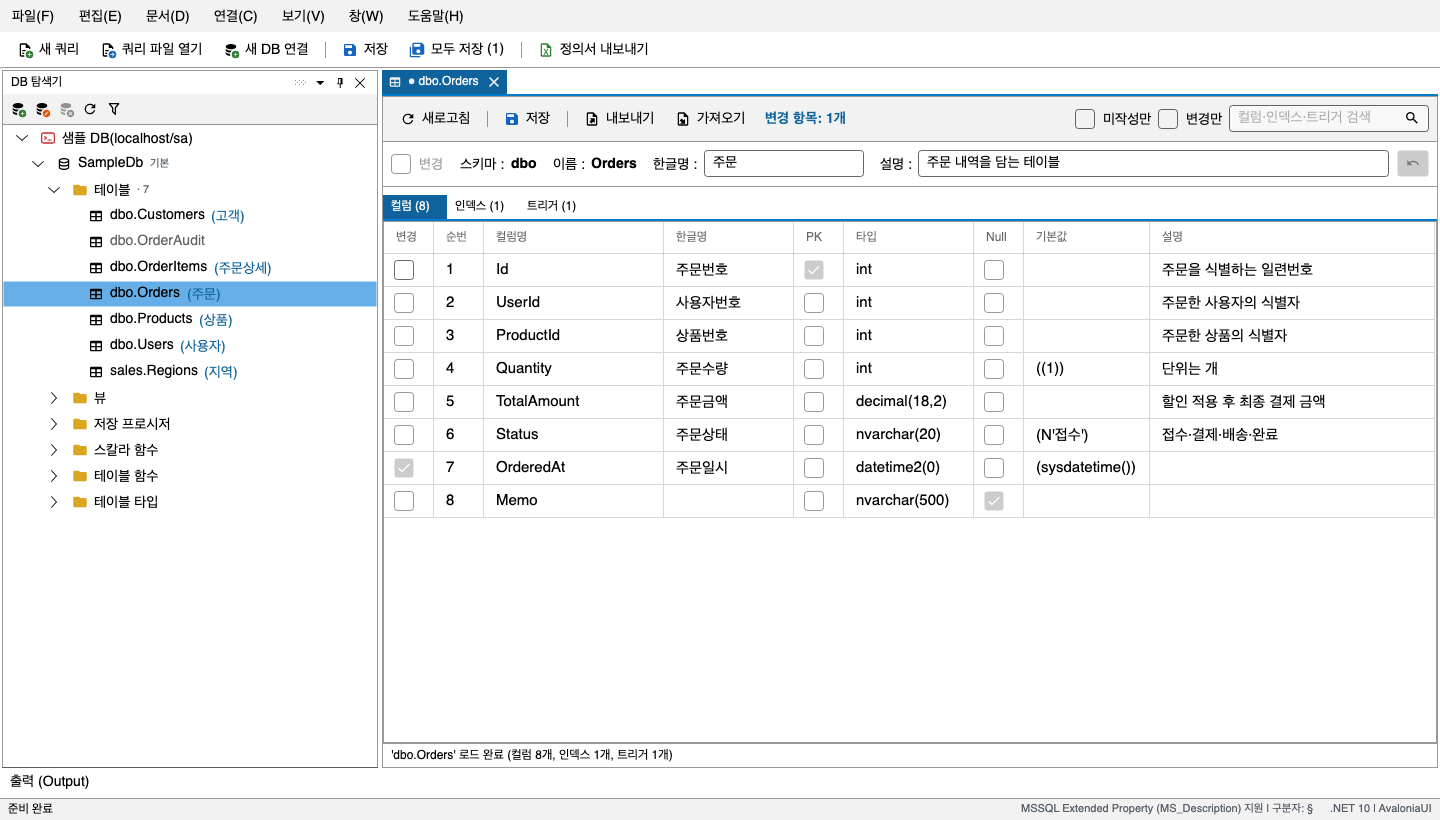
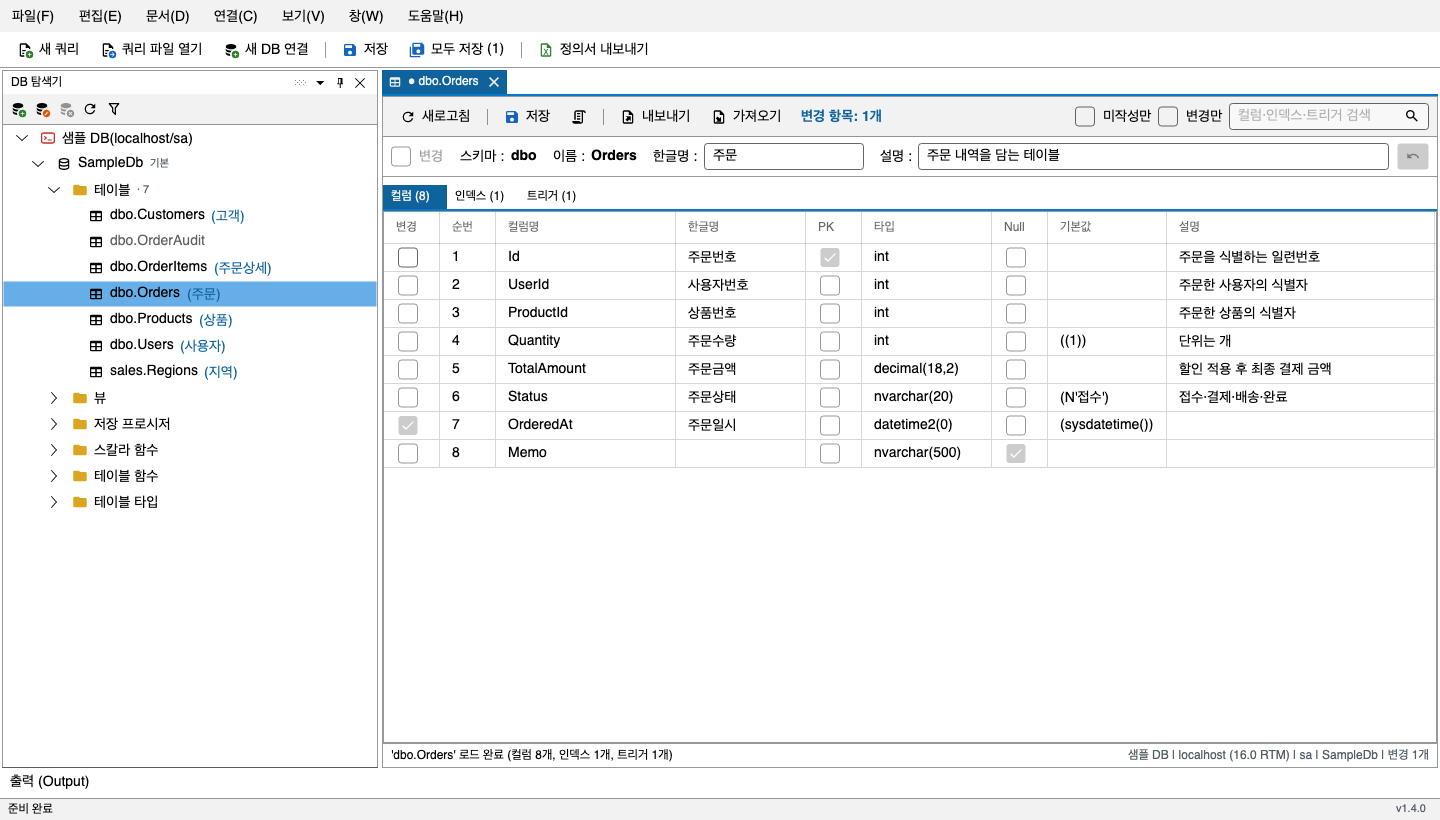
1.4.0 기능에 맞춰 README·사용 설명서와 메인 화면 스크린숏을 고친다

Changed region(s): [[0.25, 0.122, 1.0, 0.6402], [0.7188, 0.9756, 1.0, 1.0], [0.7812, 0.9146, 1.0, 0.9451]]

diff --git a/docs/settings-shortcuts.md b/docs/settings-shortcuts.md
@@ -9,16 +9,23 @@
 | 묶음 | 항목 | 기본값 | 언제 반영되나 |
 |---|---|---|---|
 | 일반 | 테마 (시스템 설정 따르기 · 라이트 · 다크) | 시스템 설정 따르기 | 고르는 즉시. 취소하면 되돌아간다 |
+| 일반 | 화면 글꼴 (설치된 글꼴) | 기본(Inter + OS 한글 글꼴) | 고르는 즉시. 취소하면 되돌아간다 |
+| 일반 | 화면 글자 크기 (12~18) | 14 | 고르는 즉시. 버튼·입력칸 높이도 함께 바뀐다. 취소하면 되돌아간다 |
 | 일반 | 앱을 켤 때 시작 페이지 표시 | 켬 | 다음 실행부터 |
 | 일반 | 앱을 켤 때 업데이트 확인 | 켬 | 다음 실행부터. **도움말 > 업데이트 확인**은 설정과 상관없이 언제나 된다 |
 | 일반 | 앱을 켤 때 지난번 SQL 편집기 탭 다시 열기 | 켬 | 다음 실행부터. 파일로 저장한 탭만 다시 열고, 실행하지는 않는다([4.9](sql-editor.md#49-파일로-저장지난-탭)) |
-| SQL 편집기 | 새 탭의 확대 비율 | 100 % | 새로 여는 SQL 편집기 탭부터. 열려 있는 탭은 그대로다 |
+| SQL 편집기 | 코드 글꼴 (설치된 고정폭 글꼴) | D2Coding(앱에 들어 있음) | 고르는 즉시. 취소하면 되돌아간다 |
+| SQL 편집기 | 코드 글자 크기 (10~24) | 13 | 고르는 즉시. 열린 편집기도 탭마다의 확대 비율을 둔 채 바뀐다. 취소하면 되돌아간다 |
 | SQL 편집기 | 결과 행 상한 | 무제한 (무제한을 끄면 100,000행이 채워진다) | 다음 실행부터. 이미 열린 탭에도 적용된다 |
 | SQL 편집기 | 실행 시간 제한 | 무제한 (무제한을 끄면 60초가 채워진다) | 다음 실행부터. 이미 열린 탭에도 적용된다 |
 
 - 행 상한과 시간 제한은 기본이 **무제한**이다. 큰 테이블을 자주 조회한다면 행 상한을 걸어 둘 것 — 수백만 행을 통째로 받으면 앱이 멈추거나 메모리 부족으로 꺼질 수 있다.
 - 행 상한과 시간 제한 칸에는 1 이상의 정수를 적는다. 천 단위 쉼표(`100,000`)는 세 자리마다 찍은 것만 받는다. 잘못 적으면 칸 아래에 이유가 보이고 **확인**이 꺼진다.
 - 항목마다 아래에 언제 반영되는지가 적혀 있다.
+- **코드 글꼴과 코드 글자 크기**는 SQL 편집기, 값 보기 창, 결과의 메시지 탭, 출력 창에 함께 걸린다. 기본 코드 글꼴 D2Coding은 한글이 영문 두 칸
+  폭이라, 한글 주석·문자열이 섞인 SQL 줄도 세로로 줄이 맞는다. SQL 편집기 탭에서 확대·축소한 비율은 탭마다 따로 남고, 새 탭은 100%로 시작한다.
+- 저장한 글꼴이 이 PC에 없으면(다른 PC에서 옮겨 온 설정 등) 기본 글꼴로 열고 출력 창에 알린다.
+- 예전 버전에서 `새 탭의 확대 비율`을 바꿔 두었으면, 그에 맞는 코드 글자 크기로 옮겨 온다(예: 150% → 20).
 - **기본값으로**는 화면의 값만 바꾼다. **확인**(또는 `Enter`)을 눌러야 저장된다. **취소**·`Esc`·창 닫기는 창을 열기 전 상태로 되돌린다.
 - 테마는 **보기 > 테마** 메뉴에서도 바꾼다. `Ctrl+T`(macOS `Cmd+T`)는 지금 보이는 테마의 반대(라이트 ↔ 다크)를 고른다. 어느 쪽에서 바꿔도 저장된다.
 

diff --git a/docs/comments.md b/docs/comments.md
@@ -2,7 +2,7 @@
 
 [목차](README.md) · 이전: [1. 시작하기](getting-started.md) · 다음: [3. 파일로 주고받기](import-export.md)
 
-이 장은 SchemaForge 1.3.0 기준이다.
+이 장은 SchemaForge 1.4.0 기준이다.
 
 - [2.1 코멘트는 어디에 저장되나](#21-코멘트는-어디에-저장되나)
 - [2.2 편집 화면 열기](#22-편집-화면-열기)
